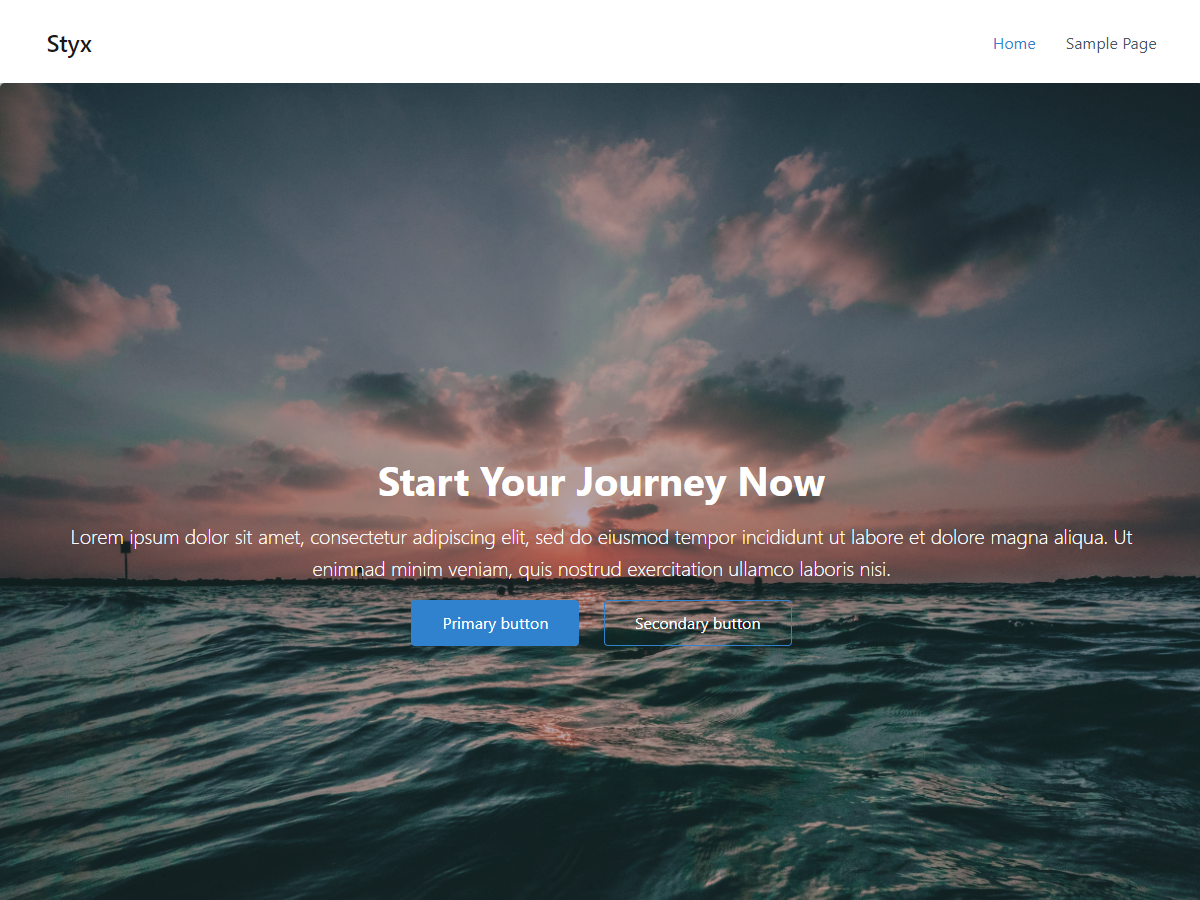
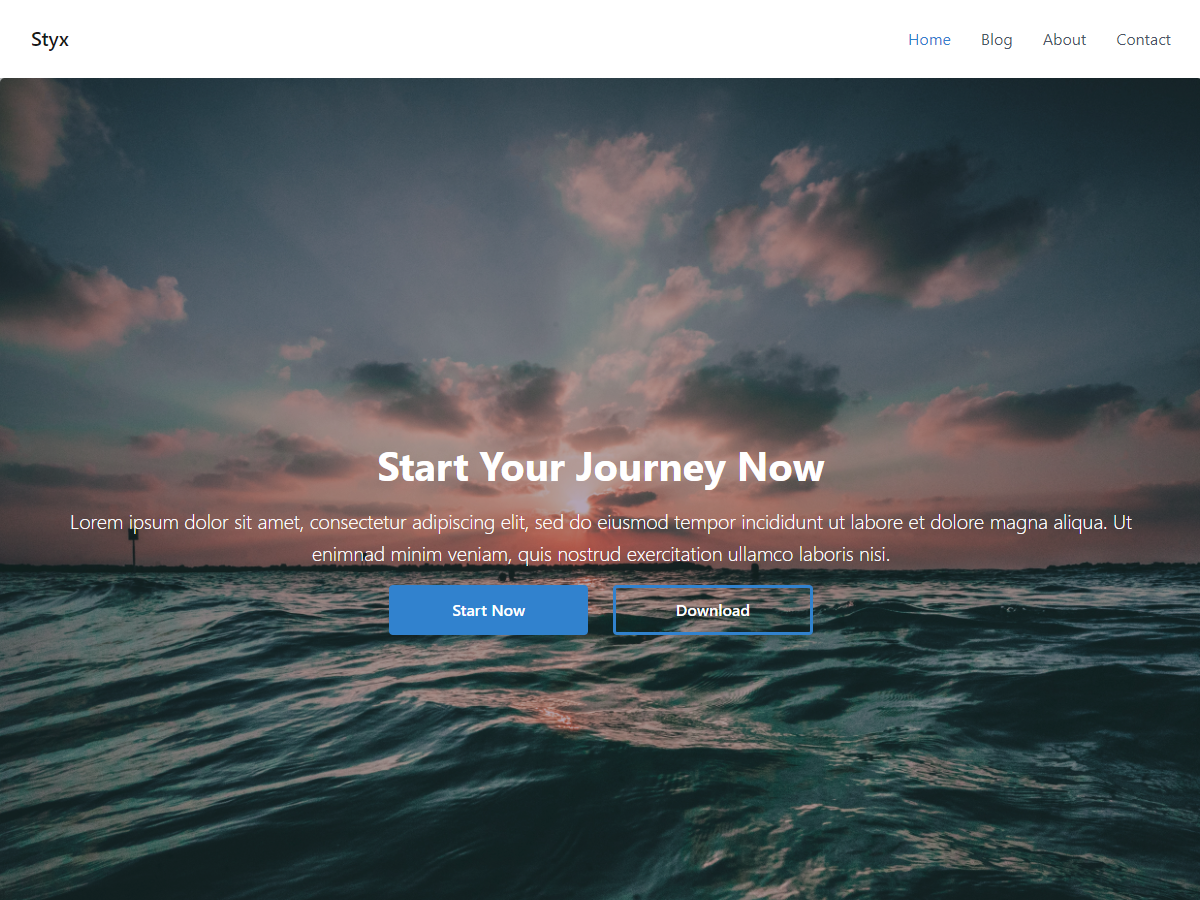
updates

diff --git a/assets/css/style.min.css b/assets/css/style.min.css
@@ -1,1 +1,1 @@
-:root{--global-palette1:#3182CE;--global-palette2:#2B6CB0;--global-palette3:#1A202C;--global-palette4:#2D3748;--global-palette5:#4A5568;--global-palette6:#718096;--global-palette7:#EDF2F7;--global-palette8:#F7FAFC;--global-palette9:#ffffff;--global-palette-highlight:var(--global-palette1);--global-palette-highlight-alt:var(--global-palette2);--global-palette-highlight-alt2:var(--global-palette9);--global-palette-btn-bg:var(--global-palette1);--global-palette-btn-bg-hover:var(--global-palette2);--global-palette-btn:var(--global-palette9);--global-palette-btn-hover:var(--global-palette9);--global-body-font-family:-apple-system,BlinkMacSystemFont,"Segoe UI",Roboto,Oxygen-Sans,Ubuntu,Cantarell,"Helvetica Neue",sans-serif,"Apple Color Emoji","Segoe UI Emoji","Segoe UI Symbol";--global-gray-400:#CBD5E0;--global-gray-500:#A0AEC0;--global-xs-spacing:1em;--global-sm-spacing:1.5rem;--global-md-spacing:2rem;--global-lg-spacing:2.5em;--global-xl-spacing:3.5em;--global-xxl-spacing:5rem;--global-edge-spacing:1.5rem;--global-boxed-spacing:2rem}input[type=color],input[type=date],input[type=datetime-local],input[type=datetime],input[type=email],input[type=month],input[type=number],input[type=password],input[type=range],input[type=search],input[type=tel],input[type=text],input[type=time],input[type=url],input[type=week],textarea{-webkit-appearance:none;color:var(--global-palette5);border:1px solid var(--global-gray-400);border-radius:3px;padding:.4em .5em;max-width:100%;background:var(--global-palette9);box-shadow:0 0 0 -7px #000}*,::after,::before{box-sizing:inherit}body{box-sizing:border-box;background-color:#f7fafc}body,input,optgroup,select,textarea{font-weight:400;font-size:17px;line-height:1.6;font-family:var(--global-body-font-family);color:var(--global-palette4)}.button,.wp-block-button__link,button,input[type=button],input[type=reset],input[type=submit]{border-radius:3px;background:var(--global-palette-btn-bg);color:var(--global-palette-btn);padding:.4em 1em;border:0;line-height:1.6;display:inline-block;font-family:inherit;cursor:pointer;text-decoration:none;transition:all .2s ease;box-shadow:0 0 0 -7px #000}.button:active,.button:focus,.button:hover,.wp-block-button__link:active,.wp-block-button__link:focus,.wp-block-button__link:hover,button:active,button:focus,button:hover,input[type=button]:active,input[type=button]:focus,input[type=button]:hover,input[type=reset]:active,input[type=reset]:focus,input[type=reset]:hover,input[type=submit]:active,input[type=submit]:focus,input[type=submit]:hover{color:var(--global-palette-btn-hover);background:var(--global-palette-btn-bg-hover);box-shadow:0 15px 25px -7px rgba(0,0,0,.1)}h1,h2,h3,h4,h5,h6{color:var(--global-palette3);line-height:1.5;font-weight:700}h2{font-size:28px}h3{font-size:24px}h4{font-size:22px}h5{font-size:20px}h6{font-size:18px}a{color:var(--global-palette-highlight);transition:all .1s linear;text-decoration:underline}#footer a,#main-content a{text-decoration:underline!important}#hero a,nav a{text-decoration:none!important}a:active,a:focus,a:hover{color:var(--global-palette-highlight-alt)}h1 a,h2 a,h3 a,h4 a,h5 a,h6 a{color:inherit;text-decoration:none}.blocks-gallery-grid .blocks-gallery-image figcaption,.blocks-gallery-grid .blocks-gallery-item figcaption,.wp-block-gallery .blocks-gallery-image figcaption,.wp-block-gallery .blocks-gallery-item figcaption{overflow:hidden}.customize-partial-edit-shortcut{left:-5px}.customize-partial-edit-shortcut__right>.customize-partial-edit-shortcut,.customize-partial-edit-shortcut__right>.styx-partial-refresh-meta .customize-partial-edit-shortcut{top:10px;left:unset;right:5px}.styx-component--disabled{display:none}.styx-sidebar .widget{margin-bottom:1.5em;color:var(--global-palette4)}.styx-sidebar .searchform input[type=text]{width:100%}.styx-sidebar .searchform input[type=text]::-webkit-input-placeholder::before{color:#666;content:"Line 1\A Line 2\A Line 3\A"}.styx-sidebar .searchform input[type=submit]{display:none}.styx-sidebar .widget-title{margin-bottom:.5em;text-transform:uppercase;font-weight:700;font-size:20px;line-height:1.5;color:var(--global-palette3)}.styx-sidebar ul{list-style:disc}.styx-sidebar a:not(.button){color:var(--global-palette3);text-decoration:none}.styx-sidebar a:not(.button):hover{color:var(--global-palette-highlight);text-decoration:underline}.styx-sidebar .widget_archive ul,.styx-sidebar .widget_categories ul,.styx-sidebar .widget_meta ul,.styx-sidebar .widget_nav_menu ul,.styx-sidebar .widget_pages ul,.styx-sidebar .widget_recent_comments ul,.styx-sidebar .widget_recent_entries ul,.styx-sidebar .widget_rss ul{margin:0;padding:0;list-style-type:none}.styx-sidebar .widget li{line-height:1.8}.styx-sidebar .widget_recent_entries ul li{margin-bottom:.4em}.styx-sidebar .widget_recent_comments li{line-height:1.3;padding-bottom:.5em}.styx-sidebar .widget_recent_comments .comment-author-link a{font-weight:inherit}.styx-sidebar .widget_recent_comments a{font-weight:700}.styx-sidebar .widget_archive li{color:var(--global-palette6)}#styx-archive-content__container .styx-post-tags a,#styx-single-content__container .styx-post-tags a{text-decoration:none!important;font-weight:700;margin-bottom:.5em;letter-spacing:.05em;font-size:70%;text-transform:uppercase}#styx-archive-content__container .styx-post-title,#styx-single-content__container .styx-post-title{text-decoration:none!important}#styx-archive-content__container .styx-post-meta-container,#styx-single-content__container .styx-post-meta-container{font-size:80%;margin:1em 0;display:flex;flex-wrap:wrap}#styx-archive-content__container .styx-post-meta-container a,#styx-single-content__container .styx-post-meta-container a{color:inherit;text-decoration:none!important;font-weight:600}#styx-archive-content__container .styx-post-meta-container>:after,#styx-single-content__container .styx-post-meta-container>:after{margin-left:.5rem;margin-right:.5rem;content:"";display:inline-block;background-color:currentColor;height:.25rem;width:.25rem;opacity:.8;border-radius:9999px;vertical-align:.1875em}#styx-archive-content__container .styx-post-meta-container>:last-child:after,#styx-single-content__container .styx-post-meta-container>:last-child:after{display:none}#styx-archive-content__container .styx-featured-image__container,#styx-single-content__container .styx-featured-image__container{position:relative;display:block;height:0;padding-bottom:66.67%;overflow:hidden;margin-left:-1.25rem;margin-right:-1.25rem;margin-top:-1.25rem}#styx-archive-content__container .styx-featured-image__container .styx-featured-image,#styx-single-content__container .styx-featured-image__container .styx-featured-image{position:absolute;top:0;bottom:0;left:0;right:0;width:100%;height:100%}#styx-single-content__container .nav-links{display:flex;justify-content:space-between}.comment-form textarea{width:100%}.comment-form a{border:none}.styx-hero__inner{display:flex;align-items:center}.styx-hero__inner>.container{z-index:1}.styx-hero>.customize-partial-edit-shortcut{right:20px;top:20px}.styx-navigation{min-height:80px;transition:all .5s;background:#fff}.styx-navigation.navbar{padding:0}.styx-navigation.navbar .dropdown ul a{padding:10px 20px;font-size:14px;text-transform:none;color:#1c3745;background-color:transparent}.styx-navigation.navbar ul{margin:0;padding:0}.styx-navigation.navbar li{position:relative;color:#1c3745}.styx-navigation.navbar a.dropdown-item,.styx-navigation.navbar a.nav-link{display:flex;align-items:center;justify-content:space-between;padding:10px 0 10px 30px;font-size:16px;color:var(--global-palette5);white-space:nowrap;transition:.3s}.styx-navigation.navbar a.dropdown-item i,.styx-navigation.navbar a.nav-link i{font-size:12px;line-height:0;margin-left:5px}@media (max-width:993px){.styx-navigation.navbar .styx-menu{overflow:hidden}.styx-navigation.navbar>*>:last-child{flex-basis:100%}.styx-navigation.navbar .navbar-nav>li a{border-bottom:1px solid #000;padding-left:0!important}.styx-navigation.navbar .navbar-nav>li .dropdown-menu{border:none}.styx-navigation.navbar .navbar-nav>li .dropdown-menu a{width:calc(100% - 20px);margin-left:20px}}.navbar .active>a,.navbar .current-menu-item>a,.navbar .current_page_item>a,.navbar a,.navbar a:hover,.navbar li:hover>a{color:inherit!important}@media (min-width:994px){.navbar .dropdown ul{display:block;position:absolute;left:14px;top:calc(100% + 30px);margin:0;padding:10px 0;z-index:99;opacity:0;background:#fff;box-shadow:0 0 30px rgba(127,137,161,.25);transition:.3s}.navbar ul{display:flex;list-style:none;align-items:center}.navbar .dropdown ul li{min-width:200px}.navbar .dropdown ul a i{font-size:12px}.navbar .dropdown ul .active:hover,.navbar .dropdown ul a:hover,.navbar .dropdown ul li:hover>a{color:#68a4c4}.navbar .dropdown:focus-within>ul,.navbar .dropdown:focus>ul,.navbar .dropdown:hover>ul{opacity:1;top:100%;visibility:visible}.navbar .dropdown .dropdown ul{top:0;left:calc(100% - 30px);visibility:hidden}.navbar .dropdown .dropdown:focus-within>ul,.navbar .dropdown .dropdown:focus>ul,.navbar .dropdown .dropdown:hover>ul{opacity:1;top:0;left:100%;visibility:visible}}@media (max-width:1366px){.navbar .dropdown .dropdown ul{left:-90%}.navbar .dropdown .dropdown:focus>ul .navbar .dropdown .dropdown:focus-within>ul,.navbar .dropdown .dropdown:hover>ul{left:-100%}}.styx-button-group [data-partial-refresh-setting]{display:inline-block}.styx-logo img{max-height:50px;width:auto;height:auto}.styx-partial-refresh-background-container{width:100%;height:100%;position:absolute}.styx-text-logo{font-weight:600;color:var(--global-palette5);font-size:24px;line-height:52px}.styx-background-layer{position:absolute;top:0;bottom:0;left:0;right:0;z-index:1}.styx-overlay-layer{position:absolute;top:0;bottom:0;left:0;right:0;z-index:10;background:#000;opacity:.5}#styx .card{box-shadow:0 15px 25px -10px rgba(0,0,0,.05);border-radius:.25rem;border:none}.skip-link{display:none}
+:root{--global-palette1:#3182CE;--global-palette2:#2B6CB0;--global-palette3:#1A202C;--global-palette4:#2D3748;--global-palette5:#4A5568;--global-palette6:#718096;--global-palette7:#EDF2F7;--global-palette8:#F7FAFC;--global-palette9:#ffffff;--global-palette-highlight:var(--global-palette1);--global-palette-highlight-alt:var(--global-palette2);--global-palette-highlight-alt2:var(--global-palette9);--global-palette-btn-bg:var(--global-palette1);--global-palette-btn-bg-hover:var(--global-palette2);--global-palette-btn:var(--global-palette9);--global-palette-btn-hover:var(--global-palette9);--global-body-font-family:-apple-system,BlinkMacSystemFont,"Segoe UI",Roboto,Oxygen-Sans,Ubuntu,Cantarell,"Helvetica Neue",sans-serif,"Apple Color Emoji","Segoe UI Emoji","Segoe UI Symbol";--global-gray-400:#CBD5E0;--global-gray-500:#A0AEC0;--global-xs-spacing:1em;--global-sm-spacing:1.5rem;--global-md-spacing:2rem;--global-lg-spacing:2.5em;--global-xl-spacing:3.5em;--global-xxl-spacing:5rem;--global-edge-spacing:1.5rem;--global-boxed-spacing:2rem}input[type=color],input[type=date],input[type=datetime-local],input[type=datetime],input[type=email],input[type=month],input[type=number],input[type=password],input[type=range],input[type=search],input[type=tel],input[type=text],input[type=time],input[type=url],input[type=week],textarea{-webkit-appearance:none;color:var(--global-palette5);border:1px solid var(--global-gray-400);border-radius:3px;padding:.4em .5em;max-width:100%;background:var(--global-palette9);box-shadow:0 0 0 -7px #000}*,::after,::before{box-sizing:inherit}body{box-sizing:border-box;background-color:#f7fafc}body,input,optgroup,select,textarea{font-weight:400;font-size:17px;line-height:1.6;font-family:var(--global-body-font-family);color:var(--global-palette4)}.button,.wp-block-button__link,button,input[type=button],input[type=reset],input[type=submit]{border-radius:3px;background:var(--global-palette-btn-bg);color:var(--global-palette-btn);padding:.4em 1em;border:0;line-height:1.6;display:inline-block;font-family:inherit;cursor:pointer;text-decoration:none;transition:all .2s ease;box-shadow:0 0 0 -7px #000}.button:active,.button:focus,.button:hover,.wp-block-button__link:active,.wp-block-button__link:focus,.wp-block-button__link:hover,button:active,button:focus,button:hover,input[type=button]:active,input[type=button]:focus,input[type=button]:hover,input[type=reset]:active,input[type=reset]:focus,input[type=reset]:hover,input[type=submit]:active,input[type=submit]:focus,input[type=submit]:hover{color:var(--global-palette-btn-hover);background:var(--global-palette-btn-bg-hover);box-shadow:0 15px 25px -7px rgba(0,0,0,.1)}h1,h2,h3,h4,h5,h6{color:var(--global-palette3);line-height:1.5;font-weight:700}h2{font-size:28px}h3{font-size:24px}h4{font-size:22px}h5{font-size:20px}h6{font-size:18px}a{color:var(--global-palette-highlight);transition:all .1s linear;text-decoration:underline}#footer a,#main-content a{text-decoration:underline!important}#hero a,nav a{text-decoration:none!important}a:active,a:focus,a:hover{color:var(--global-palette-highlight-alt)}h1 a,h2 a,h3 a,h4 a,h5 a,h6 a{color:inherit;text-decoration:none}.blocks-gallery-grid .blocks-gallery-image figcaption,.blocks-gallery-grid .blocks-gallery-item figcaption,.wp-block-gallery .blocks-gallery-image figcaption,.wp-block-gallery .blocks-gallery-item figcaption{overflow:hidden}.customize-partial-edit-shortcut{left:-5px}.customize-partial-edit-shortcut__right>.customize-partial-edit-shortcut,.customize-partial-edit-shortcut__right>.styx-partial-refresh-meta .customize-partial-edit-shortcut{top:10px;left:unset;right:5px}.styx-component--disabled{display:none}.styx-sidebar .widget{margin-bottom:1.5em;color:var(--global-palette4)}.styx-sidebar .searchform input[type=text]{width:100%}.styx-sidebar .searchform input[type=text]::-webkit-input-placeholder::before{color:#666;content:"Line 1\A Line 2\A Line 3\A"}.styx-sidebar .searchform input[type=submit]{display:none}.styx-sidebar .widget-title{margin-bottom:.5em;text-transform:uppercase;font-weight:700;font-size:20px;line-height:1.5;color:var(--global-palette3)}.styx-sidebar ul{list-style:disc}.styx-sidebar a:not(.button){color:var(--global-palette3);text-decoration:none}.styx-sidebar a:not(.button):hover{color:var(--global-palette-highlight);text-decoration:underline}.styx-sidebar .widget_archive ul,.styx-sidebar .widget_categories ul,.styx-sidebar .widget_meta ul,.styx-sidebar .widget_nav_menu ul,.styx-sidebar .widget_pages ul,.styx-sidebar .widget_recent_comments ul,.styx-sidebar .widget_recent_entries ul,.styx-sidebar .widget_rss ul{margin:0;padding:0;list-style-type:none}.styx-sidebar .widget li{line-height:1.8}.styx-sidebar .widget_recent_entries ul li{margin-bottom:.4em}.styx-sidebar .widget_recent_comments li{line-height:1.3;padding-bottom:.5em}.styx-sidebar .widget_recent_comments .comment-author-link a{font-weight:inherit}.styx-sidebar .widget_recent_comments a{font-weight:700}.styx-sidebar .widget_archive li{color:var(--global-palette6)}#styx-archive-content__container .styx-post-tags a,#styx-single-content__container .styx-post-tags a{text-decoration:none!important;font-weight:700;margin-bottom:.5em;letter-spacing:.05em;font-size:70%;text-transform:uppercase}#styx-archive-content__container .styx-post-title,#styx-single-content__container .styx-post-title{text-decoration:none!important}#styx-archive-content__container .styx-post-meta-container,#styx-single-content__container .styx-post-meta-container{font-size:80%;margin:1em 0;display:flex;flex-wrap:wrap}#styx-archive-content__container .styx-post-meta-container a,#styx-single-content__container .styx-post-meta-container a{color:inherit;text-decoration:none!important;font-weight:600}#styx-archive-content__container .styx-post-meta-container>:after,#styx-single-content__container .styx-post-meta-container>:after{margin-left:.5rem;margin-right:.5rem;content:"";display:inline-block;background-color:currentColor;height:.25rem;width:.25rem;opacity:.8;border-radius:9999px;vertical-align:.1875em}#styx-archive-content__container .styx-post-meta-container>:last-child:after,#styx-single-content__container .styx-post-meta-container>:last-child:after{display:none}#styx-archive-content__container .styx-featured-image__container,#styx-single-content__container .styx-featured-image__container{position:relative;display:block;height:0;padding-bottom:66.67%;overflow:hidden;margin-left:-1.25rem;margin-right:-1.25rem;margin-top:-1.25rem}#styx-archive-content__container .styx-featured-image__container .styx-featured-image,#styx-single-content__container .styx-featured-image__container .styx-featured-image{position:absolute;top:0;bottom:0;left:0;right:0;width:100%;height:100%}#styx-single-content__container .nav-links{display:flex;justify-content:space-between}.comment-form textarea{width:100%}.comment-form a{border:none}.styx-hero__inner{display:flex;align-items:center}.styx-hero__inner>.container{z-index:1}.styx-hero>.customize-partial-edit-shortcut{right:20px;top:20px}.styx-navigation{min-height:80px;transition:all .5s;background:#fff}.styx-navigation.navbar{padding:0}.styx-navigation.navbar .dropdown ul a{padding:10px 20px;font-size:14px;text-transform:none;color:#1c3745;background-color:transparent}.styx-navigation.navbar ul{margin:0;padding:0}.styx-navigation.navbar li{position:relative;color:#1c3745}.styx-navigation.navbar a.dropdown-item,.styx-navigation.navbar a.nav-link{display:flex;align-items:center;justify-content:space-between;padding:10px 0 10px 30px;white-space:nowrap;transition:.3s}.styx-navigation.navbar a.dropdown-item i,.styx-navigation.navbar a.nav-link i{font-size:12px;line-height:0;margin-left:5px}@media (max-width:993px){.styx-navigation.navbar .styx-menu{overflow:hidden}.styx-navigation.navbar>*>:last-child{flex-basis:100%}.styx-navigation.navbar .navbar-nav>li a{border-bottom:1px solid #000;padding-left:0!important}.styx-navigation.navbar .navbar-nav>li .dropdown-menu{border:none}.styx-navigation.navbar .navbar-nav>li .dropdown-menu a{width:calc(100% - 20px);margin-left:20px}}.navbar .active>a,.navbar .current-menu-item>a,.navbar .current_page_item>a,.navbar a,.navbar a:hover,.navbar li:hover>a{color:inherit!important;font-size:inherit!important;line-height:inherit!important}@media (min-width:994px){.navbar .dropdown ul{display:block;position:absolute;left:14px;top:calc(100% + 30px);margin:0;padding:10px 0;z-index:99;opacity:0;pointer-events:none;background:#fff;box-shadow:0 0 30px rgba(127,137,161,.25);transition:.3s}.navbar ul{display:flex;list-style:none;align-items:center}.navbar .dropdown ul li{min-width:200px}.navbar .dropdown ul a i{font-size:12px}.navbar .dropdown ul .active:hover,.navbar .dropdown ul a:hover,.navbar .dropdown ul li:hover>a{color:#68a4c4}.navbar .dropdown:focus-within>ul,.navbar .dropdown:focus>ul,.navbar .dropdown:hover>ul{opacity:1;top:100%;visibility:visible;pointer-events:initial}.navbar .dropdown .dropdown ul{top:0;left:calc(100% - 30px);visibility:hidden}.navbar .dropdown .dropdown:focus-within>ul,.navbar .dropdown .dropdown:focus>ul,.navbar .dropdown .dropdown:hover>ul{opacity:1;top:0;left:100%;visibility:visible}}@media (max-width:1366px){.navbar .dropdown .dropdown ul{left:-90%}.navbar .dropdown .dropdown:focus>ul .navbar .dropdown .dropdown:focus-within>ul,.navbar .dropdown .dropdown:hover>ul{left:-100%}}.styx-button-group [data-partial-refresh-setting]{display:inline-block}.styx-logo img{max-height:50px;width:auto;height:auto}.styx-partial-refresh-background-container{width:100%;height:100%;position:absolute}.styx-text-logo{font-weight:600;color:var(--global-palette5);font-size:24px;line-height:52px}.styx-background-layer{position:absolute;top:0;bottom:0;left:0;right:0;z-index:1}.styx-overlay-layer{position:absolute;top:0;bottom:0;left:0;right:0;z-index:10;background:#000;opacity:.5}#styx .card{box-shadow:0 15px 25px -10px rgba(0,0,0,.05);border-radius:.25rem;border:none}.skip-link{display:none}

diff --git a/style.css b/style.css
@@ -1,14 +1,14 @@
 /*
 Theme Name: Styx
 Author: Limitless Themes
-Description: Styx  is a lightweight yet full featured WordPress theme for creating beautiful fast loading and accessible websites suitable for your Startup, IT Agency, Fashion Shop, Business Startup, and blog websites. It offers a variety of customization options. The theme is SEO optimized, Responsive, and compatible with browsers such as IE11, Edge, Chrome, Brave, Firefox, Safari, Opera, UC, etc.
+Description: Styx Theme is a modern multipurpose lightweight yet full featured WordPress theme for creating beautiful fast loading and accessible websites, easier than ever. The theme perfectly suited for business, beauty & spa salons, photography, blog, magazines, architecture, interior design, decoration, furniture, home decor, construction, corporate, agency, business promotion, industries, gym, law firms, education & schools, university, restaurant & hotels, travel agency, hospital medical care, and many other websites compatible. The theme is fully responsive and compatible with popular WordPress plugins like Elementor Page Builder, Brizy, Beaver Builder, Visual Composer, Gutenberg, Block-Enabled, Polylang, WPML, Yoast SEO, Jetpack, Contact Form 7, Mailchimp for WordPress, WPForms, Google Analytics and more. The theme offers a variety of theme options is SEO optimized, and compatible with every modern browser.
 Requires at least: 5.2
 Tested up to: 5.8
 Requires PHP: 5.6
-Version: 1.0.3
+Version: 1.0.7
 License:      GNU General Public License version 3
 License URI:  http://www.opensource.org/licenses/gpl-license.php GPL v3.0 (or later)
-Tags: entertainment, food-and-drink, portfolio, one-column, two-columns, right-sidebar, grid-layout, custom-header, custom-menu, custom-logo, theme-options, translation-ready
+Tags: blog, entertainment, food-and-drink , grid-Layout, one-column, two-columns, flexible-header, right-sidebar, custom-background, custom-colors, custom-logo, custom-menu, theme-options, sticky-post, threaded-comments, translation-ready, featured-images, full-width-template
 Text Domain: styx
  */
 

diff --git a/assets/css/style.css b/assets/css/style.css
@@ -285,8 +285,6 @@ h1 a, h2 a, h3 a, h4 a, h5 a, h6 a {
       align-items: center;
       justify-content: space-between;
       padding: 10px 0 10px 30px;
-      font-size: 16px;
-      color: var(--global-palette5);
       white-space: nowrap;
       transition: 0.3s; }
       .styx-navigation.navbar a.dropdown-item i,
@@ -314,7 +312,9 @@ h1 a, h2 a, h3 a, h4 a, h5 a, h6 a {
 .navbar .current_page_item > a,
 .navbar a,
 .navbar li:hover > a {
-  color: inherit !important; }
+  color: inherit !important;
+  font-size: inherit !important;
+  line-height: inherit !important; }
 
 @media (min-width: 994px) {
   .navbar .dropdown ul {
@@ -326,6 +326,7 @@ h1 a, h2 a, h3 a, h4 a, h5 a, h6 a {
     padding: 10px 0;
     z-index: 99;
     opacity: 0;
+    pointer-events: none;
     background: #fff;
     box-shadow: 0px 0px 30px rgba(127, 137, 161, 0.25);
     transition: 0.3s; }
@@ -344,7 +345,8 @@ h1 a, h2 a, h3 a, h4 a, h5 a, h6 a {
   .navbar .dropdown:focus-within > ul {
     opacity: 1;
     top: 100%;
-    visibility: visible; }
+    visibility: visible;
+    pointer-events: initial; }
   .navbar .dropdown .dropdown ul {
     top: 0;
     left: calc(100% - 30px);

diff --git a/assets/scss/components/_navigation.scss b/assets/scss/components/_navigation.scss
@@ -34,8 +34,6 @@
       align-items: center;
       justify-content: space-between;
       padding: 10px 0 10px 30px;
-      font-size: 16px;
-      color: var(--global-palette5);
       white-space: nowrap;
       transition: 0.3s;
 
@@ -86,6 +84,8 @@
 .navbar a,
 .navbar li:hover > a {
   color: inherit !important;
+  font-size: inherit !important;
+  line-height: inherit !important;
 }
 
 
@@ -99,6 +99,7 @@
     padding: 10px 0;
     z-index: 99;
     opacity: 0;
+    pointer-events: none;
     background: #fff;
     box-shadow: 0px 0px 30px rgba(127, 137, 161, 0.25);
     transition: 0.3s;
@@ -129,6 +130,7 @@
     opacity: 1;
     top: 100%;
     visibility: visible;
+    pointer-events: initial;
   }
 
   .navbar .dropdown .dropdown ul {

diff --git a/inc/defaults-data.php b/inc/defaults-data.php
@@ -15,6 +15,10 @@ return array(
         'menu' => array(
             'menuItem' => array(
                 'color' => '#4A5568',
+                'typography' => array(
+                    'font-size' => '16px',
+                    'line-height' => '1.6',
+                ),
                 'states' => array(
                     'hover' => array(
                         'color' => '#3182CE'
@@ -26,6 +30,10 @@ return array(
             ),
             'submenuItem' => array(
                 'color' => '#4A5568',
+                'typography' => array(
+                    'font-size' => '14px',
+                    'line-height' => '1.6',
+                ),
                 'states' => array(
                     'hover' => array(
                         'color' => '#3182CE'
@@ -40,7 +48,7 @@ return array(
         ),
         'hero' => array(
             'background' => array(
-                'image' => get_template_directory_uri() . "/assets/images/road-traffic-street-car-automobile-city-808521-pxhere.com.jpg",
+                'image' => get_template_directory_uri() . "/assets/images/road-traffic-street-car-automobile-city.jpg",
                 'overlay' => array(
                     'enabled' => true,
                     'color' => '#000',
@@ -72,7 +80,7 @@ return array(
             'color' => 'white',
             'content' => __('Lorem ipsum dolor sit amet, consectetur adipiscing elit, sed do eiusmod tempor incididunt ut labore et dolore magna aliqua. Ut enimnad minim veniam, quis nostrud exercitation ullamco laboris nisi.', 'styx'),
             'typography' => array(
-                'font-size' => '1.25rem',
+                'font-size' => '20px',
                 'line-height' => '1.6',
             )
 
@@ -88,14 +96,18 @@ return array(
                 'padding-left' => '30px',
                 'padding-right' => '30px'
             ),
+            'typography' => array(
+                'font-size' => '16px',
+                'line-height' => '1.5',
+            ),
             'margin' => array(
                 'margin-top' => '0px',
-                'margin-bottom' => '0px',
+                'margin-bottom' => '10px',
                 'margin-left' => '10px',
                 'margin-right' => '10px'
             ),
             'border' => array(
-                'width' => '1',
+                'width' => '3',
                 'radius' => '4',
                 'color' => '#3182CE'
             ),
@@ -124,12 +136,16 @@ return array(
             ),
             'margin' => array(
                 'margin-top' => '0px',
-                'margin-bottom' => '0px',
+                'margin-bottom' => '10px',
                 'margin-left' => '10px',
                 'margin-right' => '10px'
             ),
+            'typography' => array(
+                'font-size' => '16px',
+                'line-height' => '1.5',
+            ),
             'border' => array(
-                'width' => '1',
+                'width' => '3',
                 'radius' => '4',
                 'color' => '#3182CE'
             ),
@@ -155,6 +171,10 @@ return array(
             'padding-top' => '64px',
             'padding-bottom' => '64px'
         ),
-        'color' => '#2D3748'
+        'color' => '#2D3748',
+        'typography' => array(
+            'font-size' => '17px',
+            'line-height' => '1.6',
+        )
     )
 );

diff --git a/inc/src/Components/FrontHeader/MenuComponent.php b/inc/src/Components/FrontHeader/MenuComponent.php
@@ -64,11 +64,21 @@ class MenuComponent extends ComponentBase
                 'priority' => 4
             ],
             [
+                'settings' => $this->settingPath('menuItem.typography'),
+                'path' => 'typography',
+                'styledComponent' => MenuStyledComponents::MENU_ITEM,
+                'type' => 'typography',
+                'label' => __('Typography', 'styx'),
+                'section' => $section,
+                'default' => Defaults::get($this->settingPath('menuItem.typography')),
+                'priority' => 5
+            ],
+            [
                 'settings' => $this->settingPath('separator' . $this->separatorIndex++),
                 'type' => 'title',
                 'label' => __('Submenu Style', 'styx'),
                 'section' => $section,
-                'priority' => 5
+                'priority' => 15
             ],
             [
                 'settings' => $this->settingPath('submenuItem.color'),
@@ -79,7 +89,7 @@ class MenuComponent extends ComponentBase
                 'section' => $section,
                 //   'active_callback' => $this->getActiveCallback(),
                 'default' => Defaults::get($this->settingPath('submenuItem.color')),
-                'priority' => 6
+                'priority' => 16
             ],
             [
                 'settings' => $this->settingPath('submenuItem.states.hover.color'),
@@ -91,7 +101,7 @@ class MenuComponent extends ComponentBase
                 'section' => $section,
                 //   'active_callback' => $this->getActiveCallback(),
                 'default' => Defaults::get($this->settingPath('submenuItem.states.hover.color')),
-                'priority' => 7
+                'priority' => 17
             ],
             [
                 'settings' => $this->settingPath('submenuContainer.background.color'),
@@ -102,7 +112,17 @@ class MenuComponent extends ComponentBase
                 'section' => $section,
                 //   'active_callback' => $this->getActiveCallback(),
                 'default' => Defaults::get($this->settingPath('submenuContainer.background.color')),
-                'priority' => 7
+                'priority' => 18
+            ],
+            [
+                'settings' => $this->settingPath('submenuItem.typography'),
+                'path' => 'typography',
+                'styledComponent' => MenuStyledComponents::SUBMENU_ITEM,
+                'type' => 'typography',
+                'label' => __('Typography', 'styx'),
+                'section' => $section,
+                'default' => Defaults::get($this->settingPath('submenuItem.typography')),
+                'priority' => 19
             ],
         ];
     }

diff --git a/template-parts/content/archive.php b/template-parts/content/archive.php
@@ -1,6 +1,6 @@
 <div id="styx-archive-content__container" class="container mb-4">
     <div class="row">
-        <div class="col-md-9 col-12 styx-content">
+        <div class="col styx-content">
             <div class="row">
                 <?php
                 if (have_posts()) {
@@ -16,8 +16,20 @@
                 </div>
             </div>
         </div>
+
+            <?php
+            $sidebarIsActive = \is_active_sidebar( 'styx-sidebar-1' );
+                ob_start();
+                if($sidebarIsActive):
+            ?>
         <div class="styx-sidebar col-md-3 col-12">
                 <?php styx_widget_area('styx-sidebar-1'); ?>
         </div>
+        <?php
+            endif;
+            $sidebar = ob_get_clean();
+            // phpcs:ignore WordPress.Security.EscapeOutput.OutputNotEscaped
+            echo $sidebar
+        ?>
     </div>
 </div>

diff --git a/inc/src/Components/FrontHeader/PrimaryButtonComponent.php b/inc/src/Components/FrontHeader/PrimaryButtonComponent.php
@@ -24,6 +24,16 @@ class PrimaryButtonComponent extends ComponentBase
         $section = $this->getSectionId();
         return array(
             [
+                'settings' => $this->settingPath('typography'),
+                'path' => 'typography',
+                'styledComponent' => PrimaryButtonStyledComponents::CONTAINER,
+                'type' => 'typography',
+                'label' => __('Typography', 'styx'),
+                'section' => $section,
+                'default' => Defaults::get($this->settingPath('typography')),
+                'priority' => 19
+            ],
+            [
                 'settings' => $this->settingPath('separator' . $this->separatorIndex++),
                 'type' => 'title',
                 'label' => __('Button Colors', 'styx'),

diff --git a/inc/src/Components/Footer/FooterComponent.php b/inc/src/Components/Footer/FooterComponent.php
@@ -54,6 +54,16 @@ class FooterComponent extends ComponentBase
                 'default' => Defaults::get($this->settingPath('padding')),
                 'priority' => 4
             ],
+            [
+                'settings' => $this->settingPath('typography'),
+                'path' => 'typography',
+                'styledComponent' => FooterStyledComponents::CONTAINER,
+                'type' => 'typography',
+                'label' => __('Typography', 'styx'),
+                'section' => $section,
+                'default' => Defaults::get($this->settingPath('typography')),
+                'priority' => 5
+            ],
         ];
     }
 

diff --git a/template-parts/content/archive-item.php b/template-parts/content/archive-item.php
@@ -10,11 +10,6 @@
             styx_render_post_excerpt();
             styx_render_post_read_more();
             ?>
-
-
-            <a href="<?php echo esc_url(get_the_permalink()); ?>">
-                Read More
-            </a>
         </div>
     </div>
 </div>

diff --git a/inc/blog/functions.php b/inc/blog/functions.php
@@ -82,7 +82,11 @@ function styx_render_post_meta() {
 }
 
 function styx_render_post_read_more() {
-
+    ?>
+    <a href="<?php echo esc_url(get_the_permalink()); ?>">
+        Read More
+    </a>
+    <?php
 }
 
 function styx_render_post_navigation() {
